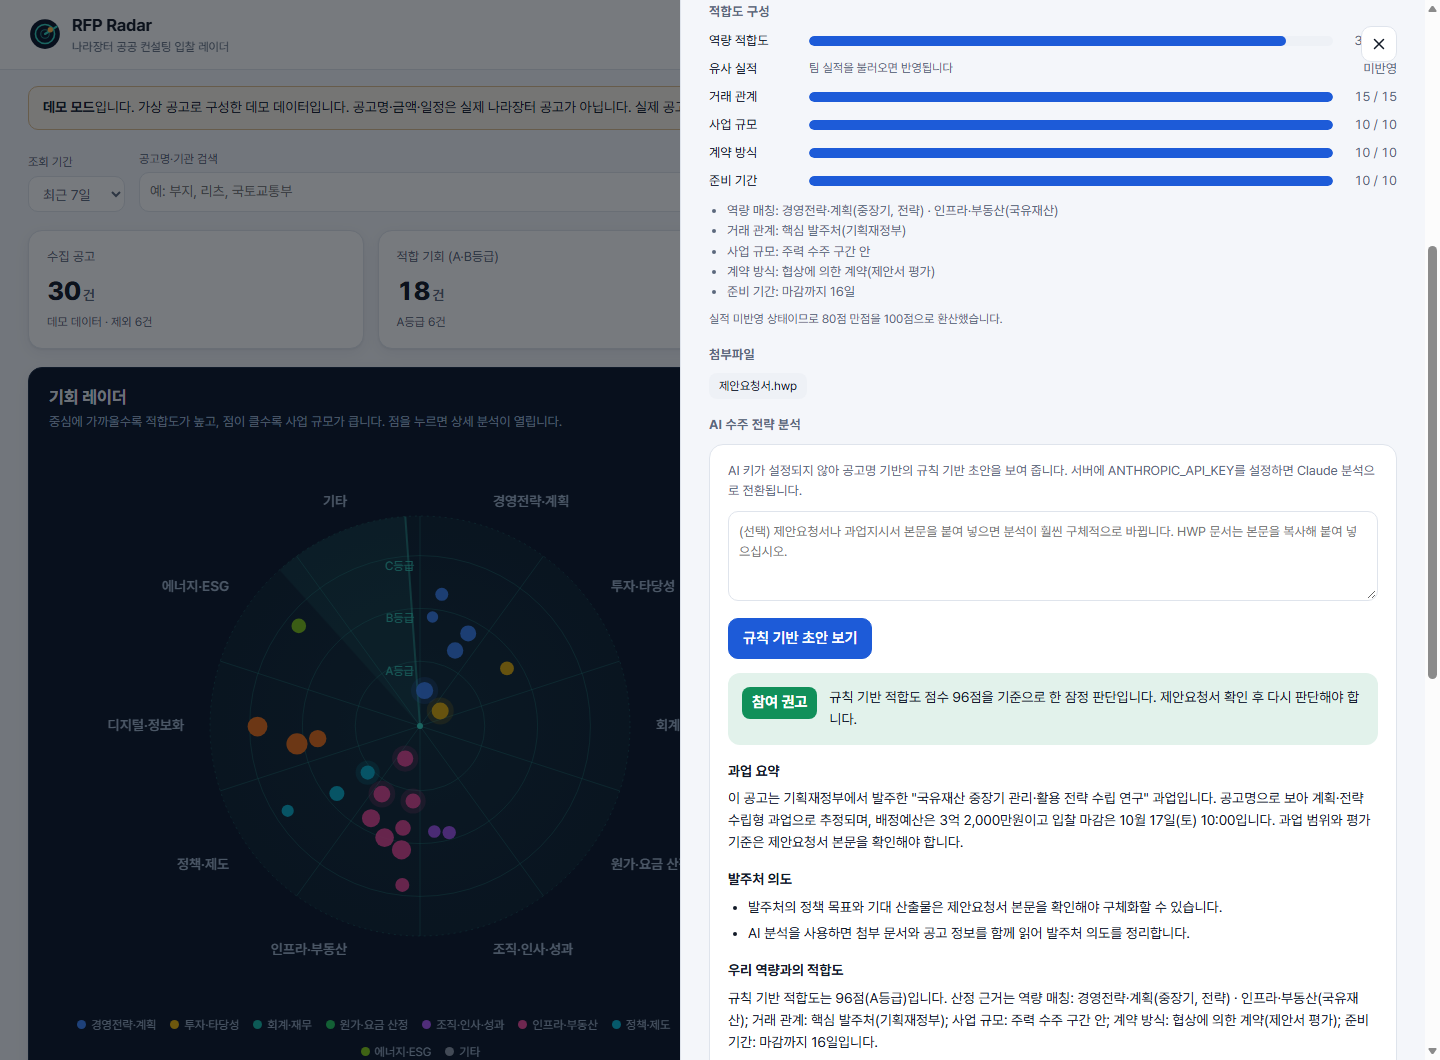
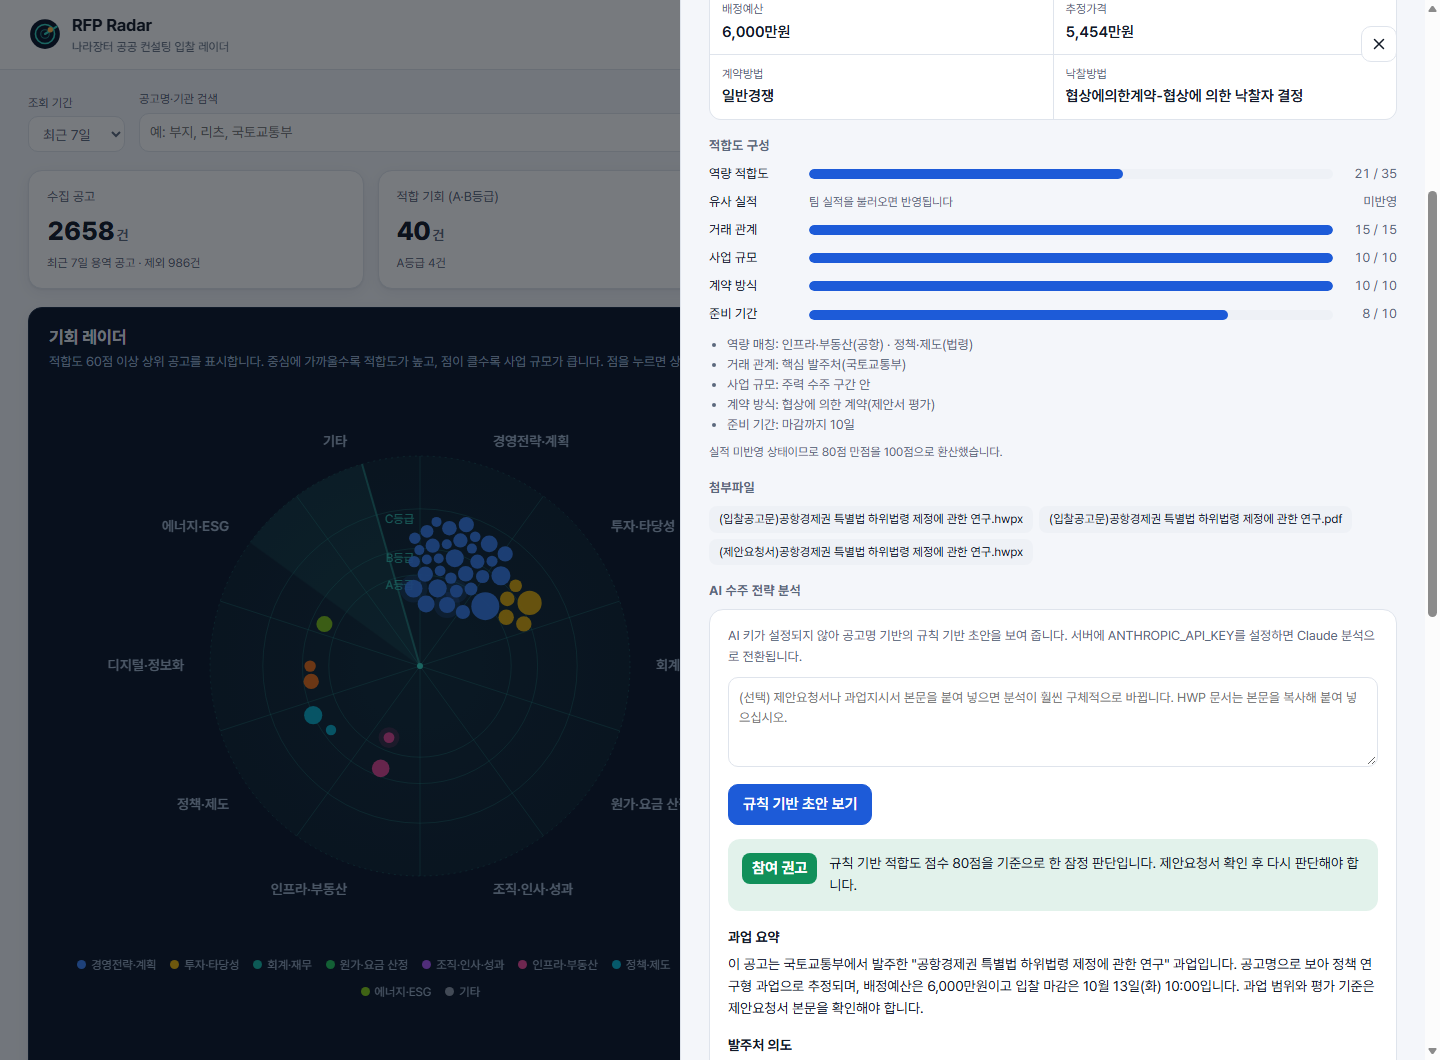
README 화면을 실제 나라장터 데이터(기본 프로필) 기준으로 교체

diff --git a/README.md b/README.md
@@ -6,7 +6,7 @@
 실제 나라장터 공고로 동작하며, 설치 없이 브라우저에서 열립니다. 첫 접속 때는 공고 수집에 10~20초 정도 걸립니다.
 
 ![기회 레이더 화면](docs/radar.png)
-<sub>위 화면은 가상 공고 30건으로 구성한 데모 모드 화면입니다.</sub>
+<sub>2026년 10월 2일 기준 실제 나라장터 공고(최근 7일 용역 공고 2,658건)를 기본 프로필로 채점한 화면입니다. 팀 수행 실적은 불러오지 않은 상태입니다.</sub>
 
 ## 해결하려는 문제
 
@@ -31,6 +31,7 @@
 - **역량 프로필 편집**: 분야별 키워드와 가중치(핵심, 주력, 인접), 제외 키워드, 핵심 발주처, 선호 사업 규모를 화면에서 바꾸면 점수가 즉시 다시 계산됩니다.
 
 ![상세 분석 화면](docs/drawer.png)
+<sub>공고 상세 화면입니다. 팀 실적을 불러오지 않아 유사 실적은 미반영으로 표시되고, AI 키가 없을 때의 규칙 기반 초안이 나와 있습니다.</sub>
 
 ## 동작 구조
 
